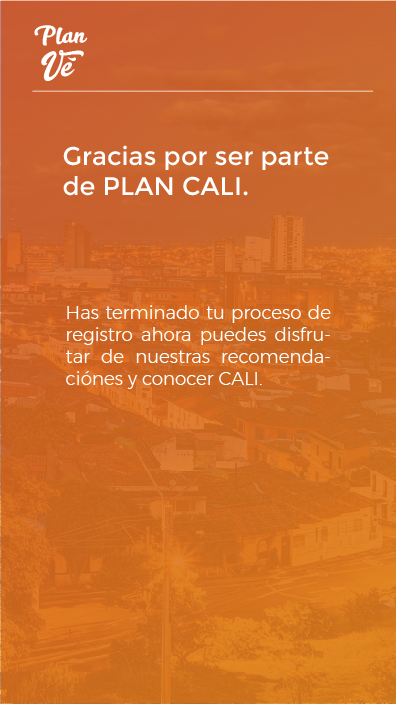
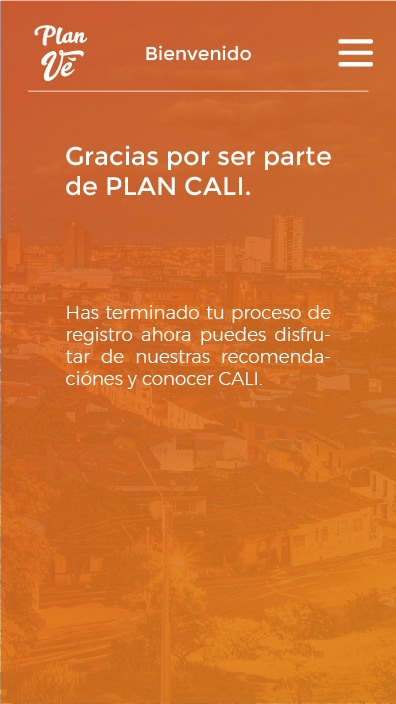
inicio

diff --git a/src/appPlanCali/Logica.java b/src/appPlanCali/Logica.java
@@ -14,8 +14,8 @@ public class Logica {
 	private PImage iniS, iniS2, reg, reg2, quit;
 	private PImage back, entrar, noacount, ask, back1;
 	private PImage regback, photo, finish;
-	private PImage instrucciones, next, volver;
-
+	private PImage instrucciones, next, volver, startnow, iconmenu;
+	private PImage crearplan, crearplans, topic, topics, topten, toptens, perfil, perfils;
 	private int index;
 	private String name, user, email, pass, adress;
 	private Analisis analisis;
@@ -30,8 +30,8 @@ public class Logica {
 		analisis = new Analisis(excel.getLugares(), excel.getUsuarios());
 		usuarios = analisis.getUsuarios();
 
-		pantalla = 0;
-		pantallasImg = new PImage[17];
+		pantalla = 17;
+		pantallasImg = new PImage[18];
 		index = 6;
 		name = "";
 		user = "";
@@ -70,6 +70,22 @@ public class Logica {
 		// pantalla 4 test
 
 		volver = app.loadImage("../data/Recursos_Pantallas/volver.png");
+
+		// pantalla 16
+
+		startnow = app.loadImage("../data/Recursos_Pantallas/startnow.png");
+		iconmenu = app.loadImage("../data/Recursos_Pantallas/Icon_menu.png");
+
+		// pantalla 17 inicio
+
+		crearplan = app.loadImage("../data/Recursos_Pantallas/crearplan.png");
+		crearplans = app.loadImage("../data/Recursos_Pantallas/crearplans.png");
+		topic = app.loadImage("../data/Recursos_Pantallas/topic.png");
+		topics = app.loadImage("../data/Recursos_Pantallas/topics.png");
+		topten = app.loadImage("../data/Recursos_Pantallas/topten.png");
+		toptens = app.loadImage("../data/Recursos_Pantallas/toptens.png");
+		perfil = app.loadImage("../data/Recursos_Pantallas/perfil.png");
+		perfils = app.loadImage("../data/Recursos_Pantallas/perfils.png");
 
 		// -----------------------------------------------------------------
 
@@ -163,7 +179,7 @@ public class Logica {
 				app.image(next, 60, 610, 270, 75);
 			}
 
-		} else if (pantalla > 3 && pantalla < 17) {
+		} else if (pantalla > 3 && pantalla < 16) {
 
 			// BOTON PARA DEVOLVERSE
 			if (app.mouseX >= 45 && app.mouseX <= 394 && app.mouseY >= 20 && app.mouseY <= 60) {
@@ -172,6 +188,46 @@ public class Logica {
 				app.image(volver, 45, 20);
 			}
 
+		} else if (pantalla == 16) {
+
+			if (app.mouseX >= 60 && app.mouseX <= 341 && app.mouseY >= 550 && app.mouseY <= 632) {
+				app.image(startnow, 60, 549, 283, 85);
+			} else {
+				app.image(startnow, 60, 550);
+			}
+
+		} else if (pantalla == 17) {
+
+			// BUTTON MENU DESPLEGABLE
+			if (app.mouseX >= 320 && app.mouseX <= 380 && app.mouseY >= 20 && app.mouseY <= 63) {
+				app.image(iconmenu, 320, 19, 62, 46);
+			} else {
+				app.image(iconmenu, 320, 20, 59, 43);
+			}
+
+			// BOTONES PRINCIPALES
+			if (app.mouseX > 0 && app.mouseX < 200 && app.mouseY >= 310 && app.mouseY < 510) {
+				app.image(crearplans, 0, 310);
+			} else {
+				app.image(crearplan, 0, 310);
+			}
+			if (app.mouseX > 0 && app.mouseX < 200 && app.mouseY > 505 && app.mouseY < 705) {
+			app.image(topics, 0, 505);
+			}else {
+				app.image(topic, 0, 505);
+			}
+			if (app.mouseX > 198 && app.mouseX < 400 && app.mouseY >= 310 && app.mouseY < 510) {
+			app.image(toptens, 198, 310);
+		}else {
+			app.image(topten, 198, 310);	
+		}
+			
+			if (app.mouseX > 198 && app.mouseX <= 400 && app.mouseY > 505 && app.mouseY < 705) {
+				app.image(perfils, 198, 505);
+				}else {
+					app.image(perfil, 198, 505);
+				}
+			
 		}
 
 	}
@@ -357,29 +413,32 @@ public class Logica {
 		case 15:
 
 			// Devolverse
-						if (x >= 45 && x <= 394 && y >= 20 && y <= 60) {
-							pantalla = 14;
-						} else {
-							pantalla = 16;
-						}
-			
-			
-			
-			
-			
-			
+			if (x >= 45 && x <= 394 && y >= 20 && y <= 60) {
+				pantalla = 14;
+			} else {
+				pantalla = 16;
+			}
+
 			break;
 
 		case 16:
-			// Devolverse
-			if (x >= 45 && x <= 394 && y >= 20 && y <= 60) {
-				pantalla = 15;
-			} else {
-				
-				
-			}
-			
 
+			pantalla = 17;
+			break;
+
+		case 17:
+			
+			if (x >= 320 && x <= 380 && y >= 20 && y <= 63) {
+				pantalla = 18;
+			}
+
+			break;
+
+		case 18:
+
+
+			pantalla = 17;
+			
 			break;
 		}
 	}
